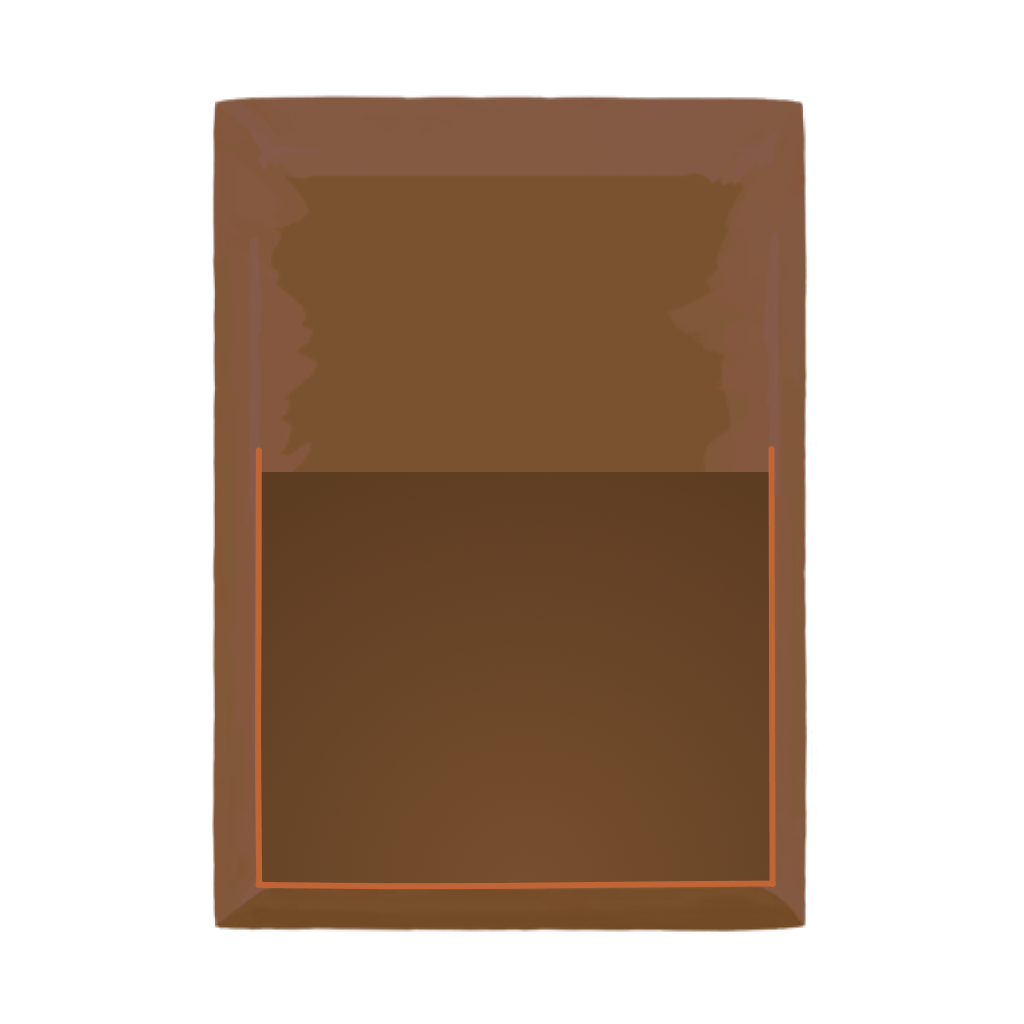
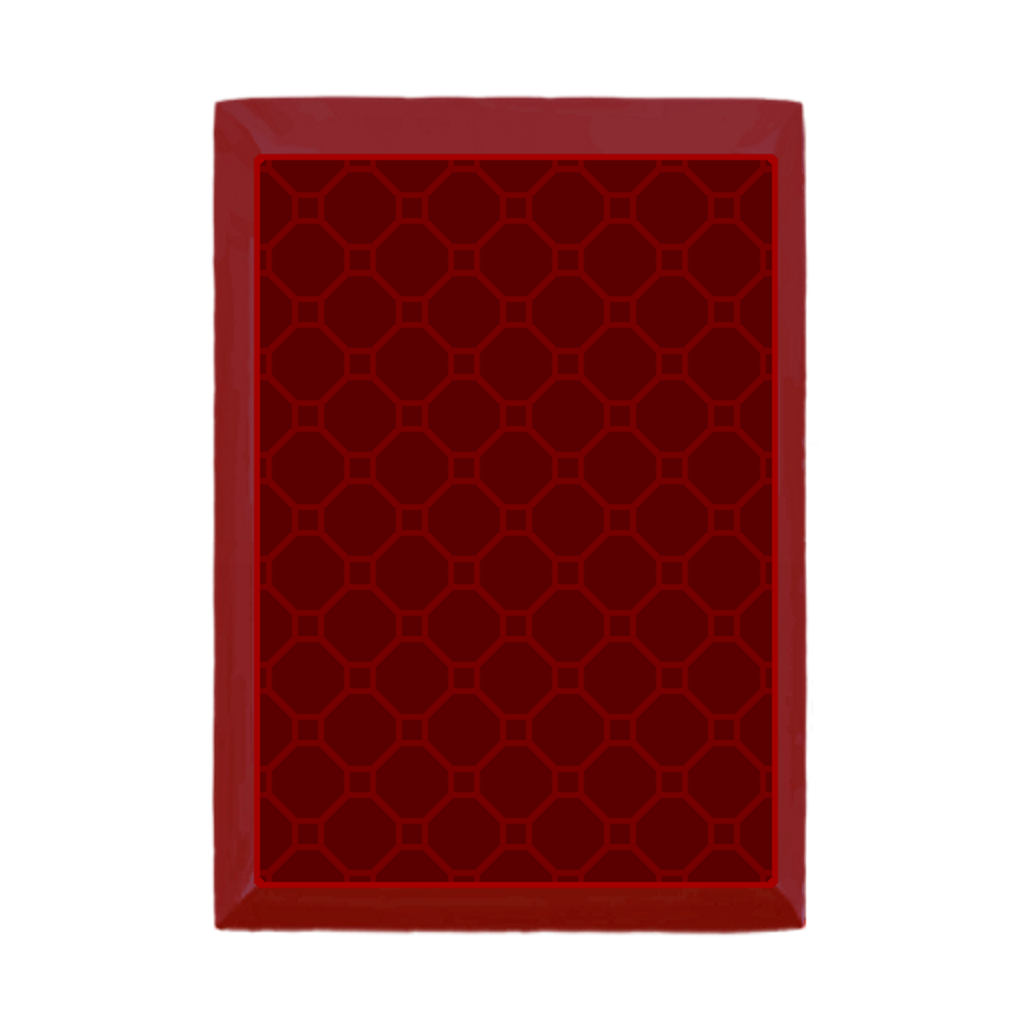
Updates, changes Cards have a background

diff --git a/src/main/java/Chen/Powers/ExploitPower.java b/src/main/java/Chen/Powers/ExploitPower.java
@@ -1,0 +1,31 @@
+package Chen.Powers;
+
+import Chen.Abstracts.Power;
+import com.megacrit.cardcrawl.actions.common.ApplyPowerAction;
+import com.megacrit.cardcrawl.cards.DamageInfo;
+import com.megacrit.cardcrawl.core.AbstractCreature;
+import com.megacrit.cardcrawl.dungeons.AbstractDungeon;
+import com.megacrit.cardcrawl.powers.VulnerablePower;
+
+public class ExploitPower extends Power {
+    public static final String NAME = "Exploit";
+    public static final PowerType TYPE = PowerType.BUFF;
+    public static final boolean TURN_BASED = false;
+
+    public ExploitPower(final AbstractCreature owner, final int amount) {
+        super(NAME, TYPE, TURN_BASED, owner, null, amount);
+    }
+
+    @Override
+    public void onAttack(DamageInfo info, int damageAmount, AbstractCreature target) {
+        if (target.hasPower(Disoriented.POWER_ID) && target.getPower(Disoriented.POWER_ID).amount > 0)
+        {
+            AbstractDungeon.actionManager.addToTop(new ApplyPowerAction(target, this.owner, new VulnerablePower(target, this.amount, !this.owner.isPlayer), this.amount));
+        }
+    }
+
+    @Override
+    public void updateDescription() {
+        this.description = descriptions[0] + "#b" + this.amount + descriptions[1];
+    }
+}

diff --git a/src/main/java/Chen/Cards/Powers/Exploit.java b/src/main/java/Chen/Cards/Powers/Exploit.java
@@ -1,0 +1,39 @@
+package Chen.Cards.Powers;
+
+import Chen.Abstracts.BaseCard;
+import Chen.Powers.DeceitfulPower;
+import Chen.Powers.ExploitPower;
+import Chen.Util.CardInfo;
+import com.megacrit.cardcrawl.actions.common.ApplyPowerAction;
+import com.megacrit.cardcrawl.characters.AbstractPlayer;
+import com.megacrit.cardcrawl.dungeons.AbstractDungeon;
+import com.megacrit.cardcrawl.monsters.AbstractMonster;
+
+import static Chen.ChenMod.makeID;
+
+public class Exploit extends BaseCard {
+    private final static CardInfo cardInfo = new CardInfo(
+            "Exploit",
+            2,
+            CardType.POWER,
+            CardTarget.SELF,
+            CardRarity.UNCOMMON
+    );
+
+    public final static String ID = makeID(cardInfo.cardName);
+
+    private static final int DEBUFF = 1;
+    private static final int UPG_COST = 1;
+
+    public Exploit()
+    {
+        super(cardInfo, false);
+
+        setCostUpgrade(UPG_COST);
+        setMagic(DEBUFF);
+    }
+
+    public void use(AbstractPlayer p, AbstractMonster m) {
+        AbstractDungeon.actionManager.addToBottom(new ApplyPowerAction(p, p, new ExploitPower(p, this.magicNumber), this.magicNumber));
+    }
+}

diff --git a/src/main/java/Chen/Cards/Attacks/SurpriseAttack.java b/src/main/java/Chen/Cards/Attacks/SurpriseAttack.java
@@ -31,9 +31,10 @@ public class SurpriseAttack extends BaseCard {
     public final static String ID = makeID(cardInfo.cardName);
 
     private final static int DAMAGE = 5;
-    private final static int UPG_DAMAGE = 3;
+    private final static int UPG_DAMAGE = 2;
 
     private final static int DEBUFF = 1;
+    private final static int UPG_DEBUFF = 1;
 
     public SurpriseAttack()
     {
@@ -41,7 +42,7 @@ public class SurpriseAttack extends BaseCard {
 
         setInnate(true, true);
         setDamage(DAMAGE, UPG_DAMAGE);
-        setMagic(DEBUFF);
+        setMagic(DEBUFF, UPG_DEBUFF);
         setExhaust(true);
     }
 

diff --git a/src/main/java/Chen/Actions/ChenActions/ImpaleAction.java b/src/main/java/Chen/Actions/ChenActions/ImpaleAction.java
@@ -37,7 +37,7 @@ public class ImpaleAction extends AbstractXAction {
     public void update() {
         if (amount > 0) {
             for(int i = 0; i < amount; ++i) {
-                AbstractDungeon.actionManager.addToBottom(new VFXIfAliveAction(this.m, new ClashEffect(m.hb.x, m.hb.y)));
+                AbstractDungeon.actionManager.addToBottom(new VFXIfAliveAction(this.m, new ClashEffect(m.hb.cX, m.hb.cY)));
                 AbstractDungeon.actionManager.addToBottom(new DamageAction(this.m, new DamageInfo(this.p, this.damage, this.damageTypeForTurn), AttackEffect.NONE));
             }
         }

diff --git a/src/main/java/Chen/Cards/Attacks/Sweep.java b/src/main/java/Chen/Cards/Attacks/Sweep.java
@@ -22,7 +22,7 @@ public class Sweep extends SwiftCard {
             "Sweep",
             1,
             CardType.ATTACK,
-            CardTarget.ENEMY,
+            CardTarget.ALL_ENEMY,
             CardRarity.COMMON
     );
 
@@ -39,6 +39,8 @@ public class Sweep extends SwiftCard {
 
         setDamage(DAMAGE);
         setMagic(HITS, UPG_HITS);
+
+        this.isMultiDamage = true;
     }
 
     public void use(AbstractPlayer p, AbstractMonster m) {

diff --git a/src/main/java/Chen/Cards/Attacks/Gash.java b/src/main/java/Chen/Cards/Attacks/Gash.java
@@ -35,11 +35,11 @@ public class Gash extends BaseCard {
 
     public final static String ID = makeID(cardInfo.cardName);
 
-    private final static int DAMAGE = 25;
+    private final static int DAMAGE = 33;
     private final static int UPG_DAMAGE = 6;
 
     private final static int DEBUFF = 6;
-    private final static int UPG_DEBUFF = 2;
+    private final static int UPG_DEBUFF = 3;
 
     public Gash()
     {
